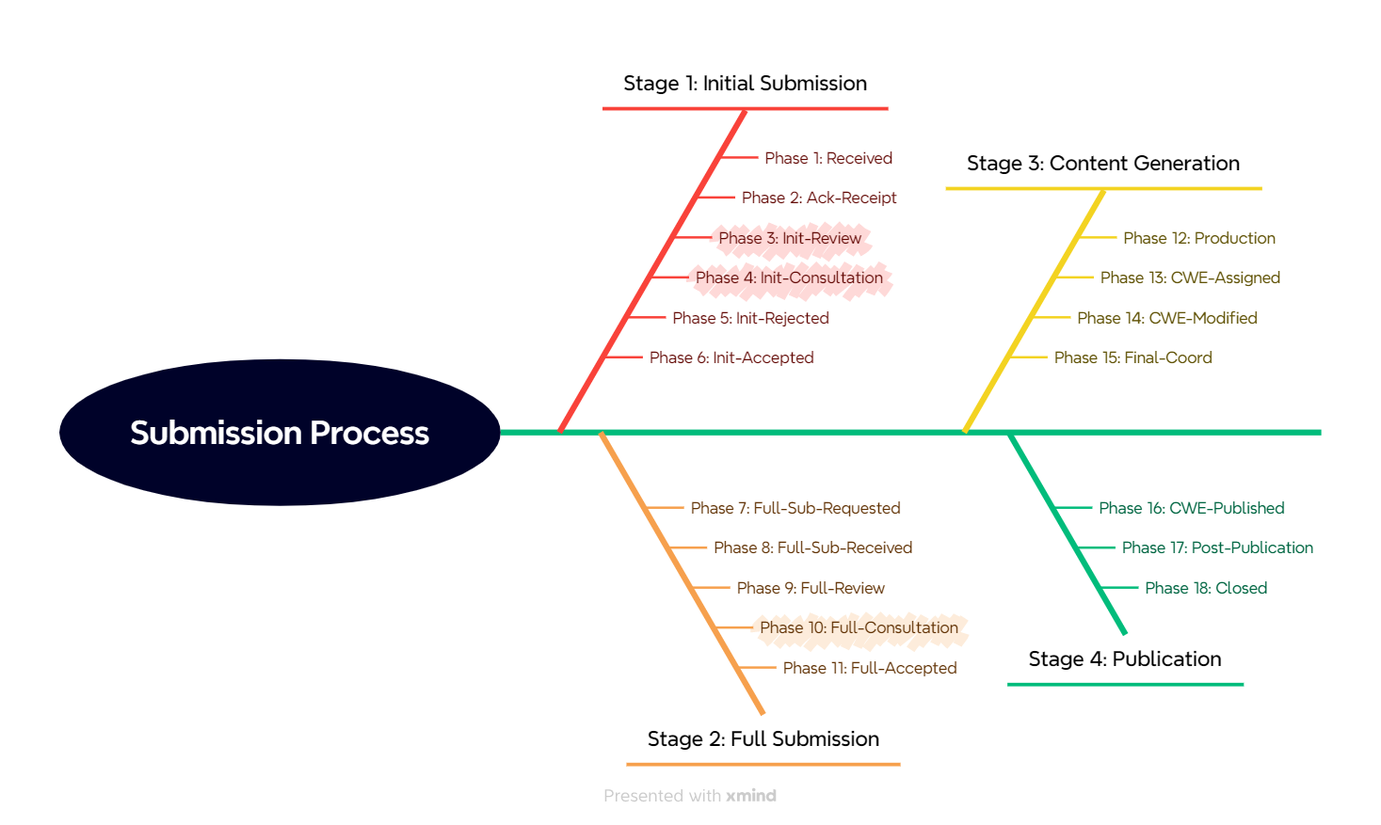
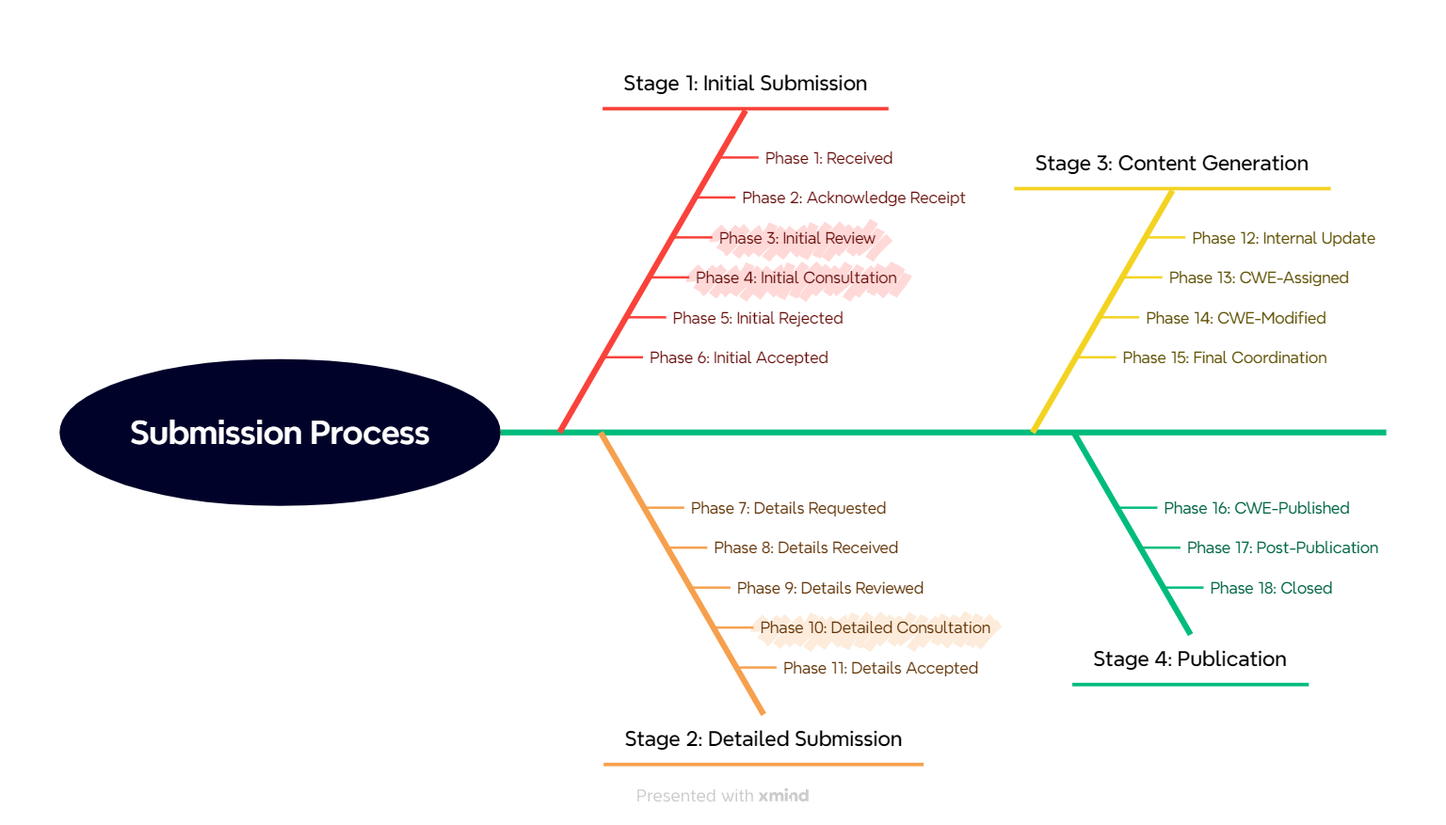
update front-page README and other docs

diff --git a/README.md b/README.md
@@ -1,170 +1,75 @@
-**Disclaimer: This page is currently under active development**
-
 # Table of Contents
-- [Important Resources](#important-resources)
-- [CWE-Content-Development-Repository](#cwe-content-development-repository)
-- [Pilot Program - September 12th, 2023 - March 2024](#pilot-program---september-12th-2023---march-2024)
-- [Repository Layout](#repository-layout)
-  - [Directory Structure](#directory-structure)
-  - [Issues](#issues)
-    - [Issue labels](#issue-labels)
-  - [Submission Files](#submission-files)
-    - [Submission File Elements](#submission-file-elements)
-  - [Reports](#reports)
-    - [sub-index-phases - Index of Active Submissions by Phase](#sub-index-phases)
-    - [sub-index-problems - Index of Active Submissions by Problem Type](#sub-index-problems)
+- [CWE Content Development Repository (CDR)](#cwe-content-development-repository)
+  - [Content Submission and Participation](#content-submission-and-participation)
+    - [External Content Submission Phases](#external-content-submission-phases)
+    - [Scope Exclusions](#scope-exclusions)
+    - [Submission Problems](#submission-problems)
+    - [GitHub Issues](#github-issues)
 - [How to Collaborate](#how-to-collaborate)
 
+# CWE Content Development Repository (CDR)
 
-# Important Resources
+The Common Weakness Enumeration (CWE) Program has launched the CWE Content Development Repository, a public GitHub repository aimed at enhancing transparency and fostering collaborative input from third parties in the CWE content development process. The community can engage in three primary roles: Content Submitter, Content Participant, and Content Screener  , which are detailed below.
 
- - [Guidelines for New Content Submissions](documentation/submission-guidelines.md)
- - [Potential Submission Problems](documentation/submission-problems.md)
- - [Potential Scope Exclusions](documentation/scope-exclusions.md)
++ **Content Submitter:** This individual aims to propose new content changes or additions to CWE. They need to track the progress of their submissions, understand their next steps, and respond to any questions from the CDR Team or other community members.
++ **Content Participant:** This person wishes to engage with the CDR by commenting on submissions without making their own submissions. They may want to track the progress of specific submissions and participate in related discussions.
++ **Content Observer:** This individual seeks a general understanding of what the CDR is and how it operates, but is unlikely to actively participate in content development.
 
-# CWE-Content-Development-Repository
+## Content Submission and Participation
 
-The CWE Program has created the CWE Content Development Repository, a public GitHub repository to increase transparency and third-party collaborative input into the CWE content development process.  Content Suggestions are received through the [CWE Submission Form](https://cwesubmission.mitre.org/) and, after being processed by the CWE team, are tranferred here for the entire CWE community to view and comment as the submission moves through various stages.
+Anyone  interested in contributing content to CWE, exploring various content suggestions or contributing ideas for improvements, please consult the [Guidelines for Content Submissions](https://github.com/CWE-CAPEC/CWE-Submissions-Test/blob/main/documentation/submission-guidelines.md) to understand the process in detail. In addition to submitting new content or proposing updates to the current content, the Content Submitter plays a crucial role in promptly and correctly addressing feedback from the CWE Team and the community regarding their entries. Their responsiveness is essential for advancing content through various phases efficiently.
+
+Content suggestions are initially received through the [CWE Submission Form](https://cwesubmission.mitre.org/). Once processed by the CWE Team, these submissions are transferred to the CDR public repository here, allowing the entire CWE community to view and comment on them as they progress through various stages.
 
 All CWE content submissions must adhere to the [CWE Terms of Use](https://cwe.mitre.org/about/termsofuse.html).
 
-# CDR Soft Launch
+### External Content Submission Phases 
 
-The CWE Content Development Repository is currently in a "soft launch" phase, where anyone is available to join by request.  This can be done by emailing a GitHub username to cwe-submissions@mitre.org.  A member of the CWE team will then invite that user to the CDR.  The repository was previously only available to active submitters in a "pilot" phase, where valuable feedback was gathered and the CDR process was refined.  
+Once a submission is provided, it needs to be reviewed by the CWE Team to determine if it is suitable for being included as new CWE content. The External Submission review process can be thought of in 4 different stages, described in the table below.
 
-The CWE team is close to fully releasing the CDR to the public, but we want to be sure we are ready for a potential influx of submissions and interaction that may come with a full public release.  More details around a potential timeline for a public release as well as reasons behind keeping the CDR currently invite only can be found in our discussion post [here](https://github.com/CWE-CAPEC/CWE-Content-Development-Repository/discussions/106).
+| Stage   | Name                | Description|
+|---------|---------------------|------------|
+| Stage 1 | Initial Submission  | The CWE Team works with the submitter to ensure that the submitted change is clearly described and should be integrated into CWE content. |
+| Stage 2 | Detailed Submission | The CWE Team asks the submitter to provide full details for the submission. |
+| Stage 3 | Content Generation  | The CWE Team prepares the content for inclusion in the next CWE version. |
+| Stage 4 | Publication         | The change is published in a new CWE version. |
 
-We are still very interested in feedback, both good and bad. Please provide feedback by creating a new issue and choosing the template called “Feedback Template”. You may also reach out to cwe-submissions@mitre.org with any feedback as well.
+These stages, as well as the more granular phases within each stage are described in detail below.
 
-# Repository Layout
+![Submission Phases Diagram](https://github.com/CWE-CAPEC/CWE-Submissions-Test/blob/main/documentation/resources/submission-phases.png)
 
-## Directory Structure
+Refer to [Submission-phases.md](https://github.com/CWE-CAPEC/CWE-Submissions-Test/blob/main/documentation/submission-phases.md) for more details, which explains the different phase labels that indicate the current stage of a submission in the review process. There are currently 18 possible phases, each representing a specific point in the review timeline.
 
-The CDR currently has the following directory structure:
+### Scope Exclusions
 
-- **documentation/**: contains various documentation files which are linked to in the README
-- **reports/**: contains report files on the various statuses for all submissions, including phases and submission problems
-- **submissions/**: contains all of the submission files for tracking, which are linked to in each corresponding submission issue
+[Scope-exclusions.md](https://github.com/CWE-CAPEC/CWE-Submissions-Test/blob/main/documentation/scope-exclusions.md): This document details the labels that begin with "SCOPE." These labels identify various issues related to the scope of a submission, known as scope exclusions. They are assigned during the initial review and are removed once the scope exclusion has been addressed.
 
-## Issues
+### Submission Problems
 
-Each content submission is assigned its own GitHub issue in the repository.  Each issue is titled with the unique submission ID followed by the name for the submission.  Each issue will also include the description of the submission as well as a link to the more detailed [submission file](#submission-files) contained in this repository.  All submission files will be under the _submissions_ folder.  The CWE team expects the community to interact with each submission by posting comments directly to each issue.  The CWE team will take any comments and discussion into account when reviewing each submission. 
+[Submission-problems.md](https://github.com/CWE-CAPEC/CWE-Submissions-Test/blob/main/documentation/submission-problems.md): This file describes labels that start with "SUB." These labels denote various submission problems that a submission may have. Similar to scope exclusions, these labels are assigned during the initial review and are removed once the submission problem has been resolved.
 
-### Issue labels
+### GitHub Issues
 
-Each individual submission will be given one of several different labels.  When searching for submission issues, filters can be set for various issue labels.  The following are the different kinds of issue labels:
+Each content submission is assigned to a unique GitHub issue within the repository. The GitHub issue is titled with the unique submission ID followed by the submission name. Each GitHub issue includes a description of the submission and a link to the detailed submission file located in the repository's *submissions* folder.
 
-- **External-Submission**: Indicates that the issue is a submission issue.  We currently allow issues to be created for feedback and may also introduce other issues which are not directly related to a particular submission.  This label helps identify only the issues that are specifically related to a submission.
-- **Feedback**: Indicates an issue created by the community to give feedback on the CDR as a whole.  Submission related feedback should be added as a comment under the submission issue.
-- **Phase**: There are various phase labels that indicate where the submission is in the [submission review process](documentation/submission-guidelines.md#external-submissions-review-process).  Currently, there are 18 possible phases.
-- **SCOPE**: Labels that start with "SCOPE." indicate any number of problems a submission currently has related to it's scope, referred to as [scope exclusions](documentation/scope-exclusions.md).  These labels are assigned during initial review of a submission and are removed once the scope exclusion has been resolved.
-- **SUB**: Labels that start with "SUB." indicate any number of [submission problems](documentation/submission-problems.md) that a submission currently has. These labels are assigned during initial review of a submission and are removed once the submission problem has been resolved.
+The CWE Team encourages the community to interact with each submission by posting comments directly on the respective GitHub issue. The team will consider all comments and discussions during the review process.
 
-## Submission Files
+When searching for submission issues, filters can be set for various of these issue labels:
 
-For each submission, a submission file is created to track the progress of the submission.  While submission issues have the basic information needed to understand a submission, these text files have additional information that is filled out by the CWE team to track the submissions.  These files are not to be edited by the submitter or the community, the CWE team will make the necessary edits as the submission is moved through the process.  
-
-### Submission File Elements
-Submission files contain the following elements.  Once the submission moves to a full submission, it will include new elements described [here](documentation/submission-guidelines.md#elements-to-include).
-
-| Element                     | Description                                                                                                                                                                                                                                                                                                                                                                    |
-| --------------------------- | ------------------------------------------------------------------------------------------------------------------------------------------------------------------------------------------------------------------------------------------------------------------------------------------------------------------------------------------------------------------------------ |
-| SUBMISSION COMMUNICATION ID | A unique ID to identify the submission.  It starts with "ES" to indicate "External Submission", followed by the submission date, and then a unique 8 character identifier                                                                                                                                                                                                      |
-| ACTION TYPE                 | This identifies what action is needed for this submission.  The options are "New Entry", "Modification", or "Undetermined"                                                                                                                                                                                                                                                     |
-| SUBMISSION STATUS           | This indicates what phase the submission is currently in.                                                                                                                                                                                                                                                                                                                      |
-| ORIGIN                      | This indicates where the submission originated from.  Moving forward, all submissions should originate from the "sub-server" (the web submission form), but some past submissions may have originated through other means                                                                                                                                                      |
-| SUBMISSION DATE             | The date of submission                                                                                                                                                                                                                                                                                                                                                         |
-| ISSUES                      | This indicates if there are any current issues with the submission.  Possible values are "yes/active", "no", or "not-analyzed"                                                                                                                                                                                                                                                 |
-| ISSUE DETAILS               | The titles of any active issues for the submission                                                                                                                                                                                                                                                                                                                             |
-| PUBTRACKER                  | This indicates the public issue ID on the CDR GitHub for the submission, otherwise referred to as the "public tracker"                                                                                                                                                                                                                                                         |
-| MTRACKER                    | This indicates the MITRE internal tracker ID.  TODO: should this be scrubbed from the submission file on CDR?                                                                                                                                                                                                                                                                  |
-| GITHUBUSER                  | This indicates the GitHub username of the submitter if provided                                                                                                                                                                                                                                                                                                                |
-| SUBMISSION TYPE             | This indicates the type of submission in terms of scope.  Currently, the possible values are "Software" and "Hardware", although additional values may be added in the future as needed                                                                                                                                                                                        |
-| NAME                        | The proposed name for the submission                                                                                                                                                                                                                                                                                                                                           |
-| DESCRIPTION                 | The proposed description for the submission                                                                                                                                                                                                                                                                                                                                    |
-| RELATED WEAKNESSES          | Any CWEs which are thought to be related to the current submission                                                                                                                                                                                                                                                                                                             |
-| REFERENCES                  | Any relevant references to the submission provided by the submitter                                                                                                                                                                                                                                                                                                            |
-| ACTIVE ISSUES               | This section describes all of the currently identified submission problems.  Each problem has a description of the general problem, a comment about why the submission problem applies to this current submission, with a potential action for the submitter to resolve the problem, and a response section where a CWE team member can paste the response from the submitter. |
-| RESOLVED ISSUES             | Similar to ACTIVE ISSUES, except this section descibes all of the submission problems which have been resolved                                                                                                                                                                                                                                                                 |
-| TIMELINE                    | This section shows the dates at which the submission has progressed to different phases                                                                                                                                                                                                                                                                                        |
-| COMMUNICATION LOG           | This section keeps a log of any communication between the CWE team and the submitter |
-
-## Reports
-
-The CDR has various reports to aid with assessing the status of all
-current submissions.  These can be found in the top level *reports/*
-directory.  The reports are in two formats:
-
-- markdown format, which can be easily viewed directly on the CDR
-- html format, which is best viewed if downloaded and viewed with your browser of choice
-
-Currently there are two different reports to view:
-
-<a name="sub-index-phases"></a>
-
-### sub-index-phases - Index of Active Submissions by Phase
-
-This report details all of the current submissions grouped by their
-phases.  Under each phase is a table containing the submissions for
-that phase.  Each row contains the CDR GitHub ID for that submission
-(which links to the submission issue), the submitter GitHub username,
-submission date, submission ID (which links to the submission file for
-that issue), and the submission name.  For submissions with active
-issues, you will also see these issues listed below.
-
-- [markdown format](reports/sub-index-phases.md)
-- [html format](reports/sub-index-phases.html)
-
-<a name="sub-index-problems"></a>
-
-### sub-index-problems - Index of Active Submissions by Problem Type
-
-This report details all of the current submissions grouped by their
-submission problems.  Because submissions often have multiple
-problems, you will see individual submissions appear more than once in
-this report.  Under each submission problem is a table containing the
-submissions for that phase.  Each row contains the CDR GitHub ID for
-that submission (which links to the submission issue), the submitter
-GitHub username, submission date, submission ID (which links to the
-submission file for that issue), and the submission name. The active
-issues for each submission will also be listed in a following row.
-
-- [markdown format](reports/sub-index-problems.md)
-- [html format](reports/sub-index-problems.html)
-
++ External-Submission: Identifies issues specifically related to a submission.
++ Feedback: Created by the community to provide feedback on the CDR as a whole. Submission-related feedback should be commented on under the submission issue.
++ Phase: Indicates the submission's stage in the review process, with 18 possible phases.
++ SCOPE: Denotes scope-related problems in a submission, assigned during initial review and removed once resolved.
++ SUB: Denotes submission-related problems, assigned during initial review and removed once resolved.
 
 # How to Collaborate
 
-The main collaboration on the CDR should be through issue comments.
-The CWE team will use issue comments to communicate with the content
-submitter, and the community can use issue comments to provide
-feedback and thoughts on the submission.
+The main collaboration on the CDR should be through issue comments. The CWE Team will use issue comments to communicate with the content submitter, and the community can use issue comments to provide feedback and thoughts on the submission.
 
-**Code of Conduct**.  It is important that anyone contributing to the
-CDR is respectful in their feedback and follows the [code of
-conduct](CODE_OF_CONDUCT.md).  The CWE team reserves the right to
-restrict access to anyone who is in violation of the code of conduct.
+**Code of Conduct:** It is important that anyone contributing to the CDR is respectful in their feedback and follows the [code of conduct](https://github.com/CWE-CAPEC/CWE-Submissions-Test/blob/main/CODE_OF_CONDUCT.md). The CWE Team reserves the right to restrict access to anyone who is in violation of the code of conduct.
 
-**Issue Management**.  Issues are given various labels that are
-directly managed by MITRE.  These should not be modified by CDR users.
+**Issue Management:** Issues are given various labels that are directly managed by MITRE. These should not be modified by CDR users.
 
-**Reviews**.  It is important that members of the community do not
-attempt to do their own reviews or tell submitters what they should do
-with their submissions.  This will cause confusion as MITRE team
-members are the only ones who will direct changes to a submission or
-move the submission through different phases.
+**Reviews:** It is important that members of the community do not attempt to do their own reviews or tell submitters what they should do with their submissions. This will cause confusion as MITRE team members are the only ones who will direct changes to a submission or move the submission through different phases.
 
-**New Submissions**. Please do not create new content submissions as
-issues on the CDR.  We have opened up the ability for community
-members to create issues for the purpose of giving feedback on the CDR
-as a whole, but any issues created to submit content will be deleted.
-Please only create issues by using one of the issue templates
-provided.
-
-
-
-
-
-
-
-
+**New Submissions:** Please do not create new content submissions as issues on the CDR, instead use the [CWE Submission Form](https://cwesubmission.mitre.org/). We have opened up the ability for community members to create issues for the purpose of giving feedback on the CDR as a whole, but any issues created to submit content will be closed. Please only create issues by using one of the issue templates provided.

diff --git a/documentation/submission-file-elements.md b/documentation/submission-file-elements.md
@@ -1,0 +1,23 @@
+Submission files contain the following elements.  Once the submission moves to a full submission, it will include new elements described [here](submission-guidelines.md#elements-to-include).
+
+| Element                     | Description                                                                                                                                                                                                                                                                                                                                                                    |
+| --------------------------- | ------------------------------------------------------------------------------------------------------------------------------------------------------------------------------------------------------------------------------------------------------------------------------------------------------------------------------------------------------------------------------ |
+| SUBMISSION COMMUNICATION ID | A unique ID to identify the submission.  It starts with "ES" to indicate "External Submission", followed by the submission date, and then a unique 8 character identifier                                                                                                                                                                                                      |
+| ACTION TYPE                 | This identifies what action is needed for this submission.  The options are "New Entry", "Modification", or "Undetermined"                                                                                                                                                                                                                                                     |
+| SUBMISSION STATUS           | This indicates what phase the submission is currently in.                                                                                                                                                                                                                                                                                                                      |
+| ORIGIN                      | This indicates where the submission originated from.  Moving forward, all submissions should originate from the "sub-server" (the web submission form), but some past submissions may have originated through other means                                                                                                                                                      |
+| SUBMISSION DATE             | The date of submission                                                                                                                                                                                                                                                                                                                                                         |
+| ISSUES                      | This indicates if there are any current issues with the submission.  Possible values are "yes/active", "no", or "not-analyzed"                                                                                                                                                                                                                                                 |
+| ISSUE DETAILS               | The titles of any active issues for the submission                                                                                                                                                                                                                                                                                                                             |
+| PUBTRACKER                  | This indicates the public issue ID on the CDR GitHub for the submission, otherwise referred to as the "public tracker"                                                                                                                                                                                                                                                         |
+| MTRACKER                    | This indicates the MITRE internal tracker ID.  TODO: should this be scrubbed from the submission file on CDR?                                                                                                                                                                                                                                                                  |
+| GITHUBUSER                  | This indicates the GitHub username of the submitter if provided                                                                                                                                                                                                                                                                                                                |
+| SUBMISSION TYPE             | This indicates the type of submission in terms of scope.  Currently, the possible values are "Software" and "Hardware", although additional values may be added in the future as needed                                                                                                                                                                                        |
+| NAME                        | The proposed name for the submission                                                                                                                                                                                                                                                                                                                                           |
+| DESCRIPTION                 | The proposed description for the submission                                                                                                                                                                                                                                                                                                                                    |
+| RELATED WEAKNESSES          | Any CWEs which are thought to be related to the current submission                                                                                                                                                                                                                                                                                                             |
+| REFERENCES                  | Any relevant references to the submission provided by the submitter                                                                                                                                                                                                                                                                                                            |
+| ACTIVE ISSUES               | This section describes all of the currently identified submission problems.  Each problem has a description of the general problem, a comment about why the submission problem applies to this current submission, with a potential action for the submitter to resolve the problem, and a response section where a CWE team member can paste the response from the submitter. |
+| RESOLVED ISSUES             | Similar to ACTIVE ISSUES, except this section descibes all of the submission problems which have been resolved                                                                                                                                                                                                                                                                 |
+| TIMELINE                    | This section shows the dates at which the submission has progressed to different phases                                                                                                                                                                                                                                                                                        |
+| COMMUNICATION LOG           | This section keeps a log of any communication between the CWE team and the submitter |

diff --git a/documentation/submission-guidelines.md b/documentation/submission-guidelines.md
@@ -10,6 +10,10 @@
   - [Descriptions are not clearly written](#descriptions-are-not-clearly-written)
   - [Submission elements are missing or do not follow guidelines](#submission-elements-are-missing-or-do-not-follow-guidelines)
 - [External Submissions Review Process](#external-submissions-review-process)
+  - [Stage 1: Initial Submission](#stage-1-initial-submission)
+  - [Stage 2: Full Submission](#stage-2-full-submission)
+  - [Stage 3: Content Generation](#stage-3-content-generation)
+  - [Stage 4: Publication](#stage-4-publication)
 - [Additional Supporting Information](#additional-supporting-information)
   - [Other Information](#other-information)
   - [Elements to Include](#elements-to-include)
@@ -72,8 +76,117 @@ knowledge is required to understand the issue.
 
 Each submission needs to be reviewed by the CWE team to determine if it is suitable for being included as new CWE
 content. The External Submission review process can be thought of in 4 different stages: **Initial Submission**, **Full
-Submission**, **Content Generation**, and **Publication**.  Details about these stages, as well as the more granular phases within
-each stage are described in detail [here](submission-phases.md).
+Submission**, **Content Generation**, and **Publication**.  These stages, as well as the more granular phases within
+each stage are described in detail below.
+
+### Stage 1: Initial Submission 
+An external submitter either provides a name, short description of the weakness, one or more references, and suggested
+relationships for a new CWE submission or provides modification information to modify and existing CWE. The CWE Team
+works with the submitter to ensure that the initial submission does not have any [submission
+problems](submission-problems.md) that would prevent it from being integrated into CWE content.
+
+#### Phase 1: Received
+
+The CWE Team receives an initial submission from the web submission server and creates an internal submission tracking
+file.  Submissions in this phase will typically not be pushed to the CDR to ensure that the information provided is
+suitable for public release.
+
+#### Phase 2: Ack-Receipt
+
+The CWE Team notifies the original submitter that the initial submission has been received.  At this stage the
+submission will be moved to the CDR, where a GitHub issue tracker will be created for the submission and the internal
+submission tracking file will be pushed.
+
+#### Phase 3: Init-Review
+
+A member of the CWE Team performs an initial review of the submission, going through each potential [submission
+problem](submission-problems.md) and [scope exclusion](scope-exclusions.md) to ensure there are no issues.  Any
+identified submission problem will be added to the submission tracking file and also indicated as a label to the CDR
+issue tracker.
+
+#### Phase 4: Init-Consultation
+
+Members of the CWE Team work with the submitter to resolve any identified submission problems. This discussion will
+happen as comments under the submission's CDR issue tracker.
+
+#### Phase 5: Init-Rejected
+
+The CWE Team rejects the initial submission and notifies the submitter.
+
+#### Phase 6: Init-Accepted
+
+The CWE Team accepts the initial submission and notifies the submitter.
+
+### Stage 2: Full Submission
+If the initial submission is accepted, then the CWE Team asks the submitter to provide full details for the submission,
+including over 10 different fields that will make the basis of a new CWE entry, such as potential mitigations, common
+consequences, demonstrative code examples, and others. The CWE Team works with the submitter to ensure that the full
+submission has appropriate, correct details.  
+
+#### Phase 7: Full-Sub-Requested
+
+The CWE Team asks the submitter to provide full details for their submission.  Currently, this is done by posting a
+comment to the CDR issue tracker.  The submitter can then move that comment to a text editor of their choice, add the
+details inline, and reply with the updated information as a new comment to the CDR issue tracker.
+
+#### Phase 8: Full-Sub-Received
+
+The submitter has provided the full submission details, but they have not yet been reviewed by the CWE team.
+
+#### Phase 9: Full-Review
+
+The CWE Team reviews the full submission details, ensures that all requested details are provided, and performs a
+quality check on each field within the submission.
+
+#### Phase 10: Full-Consultation
+
+If necessary, the CWE Team works directly with the submitter to resolve any gaps or identified quality concerns.
+
+#### Phase 11: Full-Accepted
+
+The CWE Team accepts the full, detailed submission.
+
+### Stage 3: Content Generation
+At this stage, all relevant details should have been provided. The CWE Team prepares the content for inclusion in the
+next CWE version, whether as a new CWE entry, a modification to an existing entry/entries, or both. The CWE Team works
+with the submitter and/or the community to address any small errors or omissions that might not have been addressed
+during earlier stages.
+
+#### Phase 12: Production
+
+The CWE Team begins to integrate appropriate details into its internal repository of CWE content, which is used to
+generate new CWE versions.
+
+#### Phase 13: CWE-Assigned
+
+For any new entry/entries, the CWE Team assigns a CWE identifier and translates the full submission's content into XML
+format.
+
+#### Phase 14: CWE-Modified
+
+For any entry/entries requiring modification, the CWE Team integrates any modifications into XML format.
+
+#### Phase 15: Final-Coordination
+
+The CWE Team performs final coordination with the submitter before the content is published, such as confirming credits
+to the submitter, final review of the changes, etc.
+
+### Stage 4: Publication
+The changes are included in a new CWE version, whether as a new CWE entry, a modification to an existing entry/entries,
+or both.
+
+#### Phase 16: CWE-Published
+
+The CWE changes and/or new entries are published in a new CWE version.
+
+#### Phase 17: Post-Publication
+
+The CWE Team notifies the submitter of the publication and determines if any additional changes are necessary.
+
+#### Phase 18: Closed
+
+The CWE Team closes the external submission, and no more action is necessary. Any future changes, if needed, would apply
+to the relevant CWE entry/entries.
 
 ## Additional Supporting Information
 The following is intended as supplementary guidance information to help clarify the overall submission process to follow
